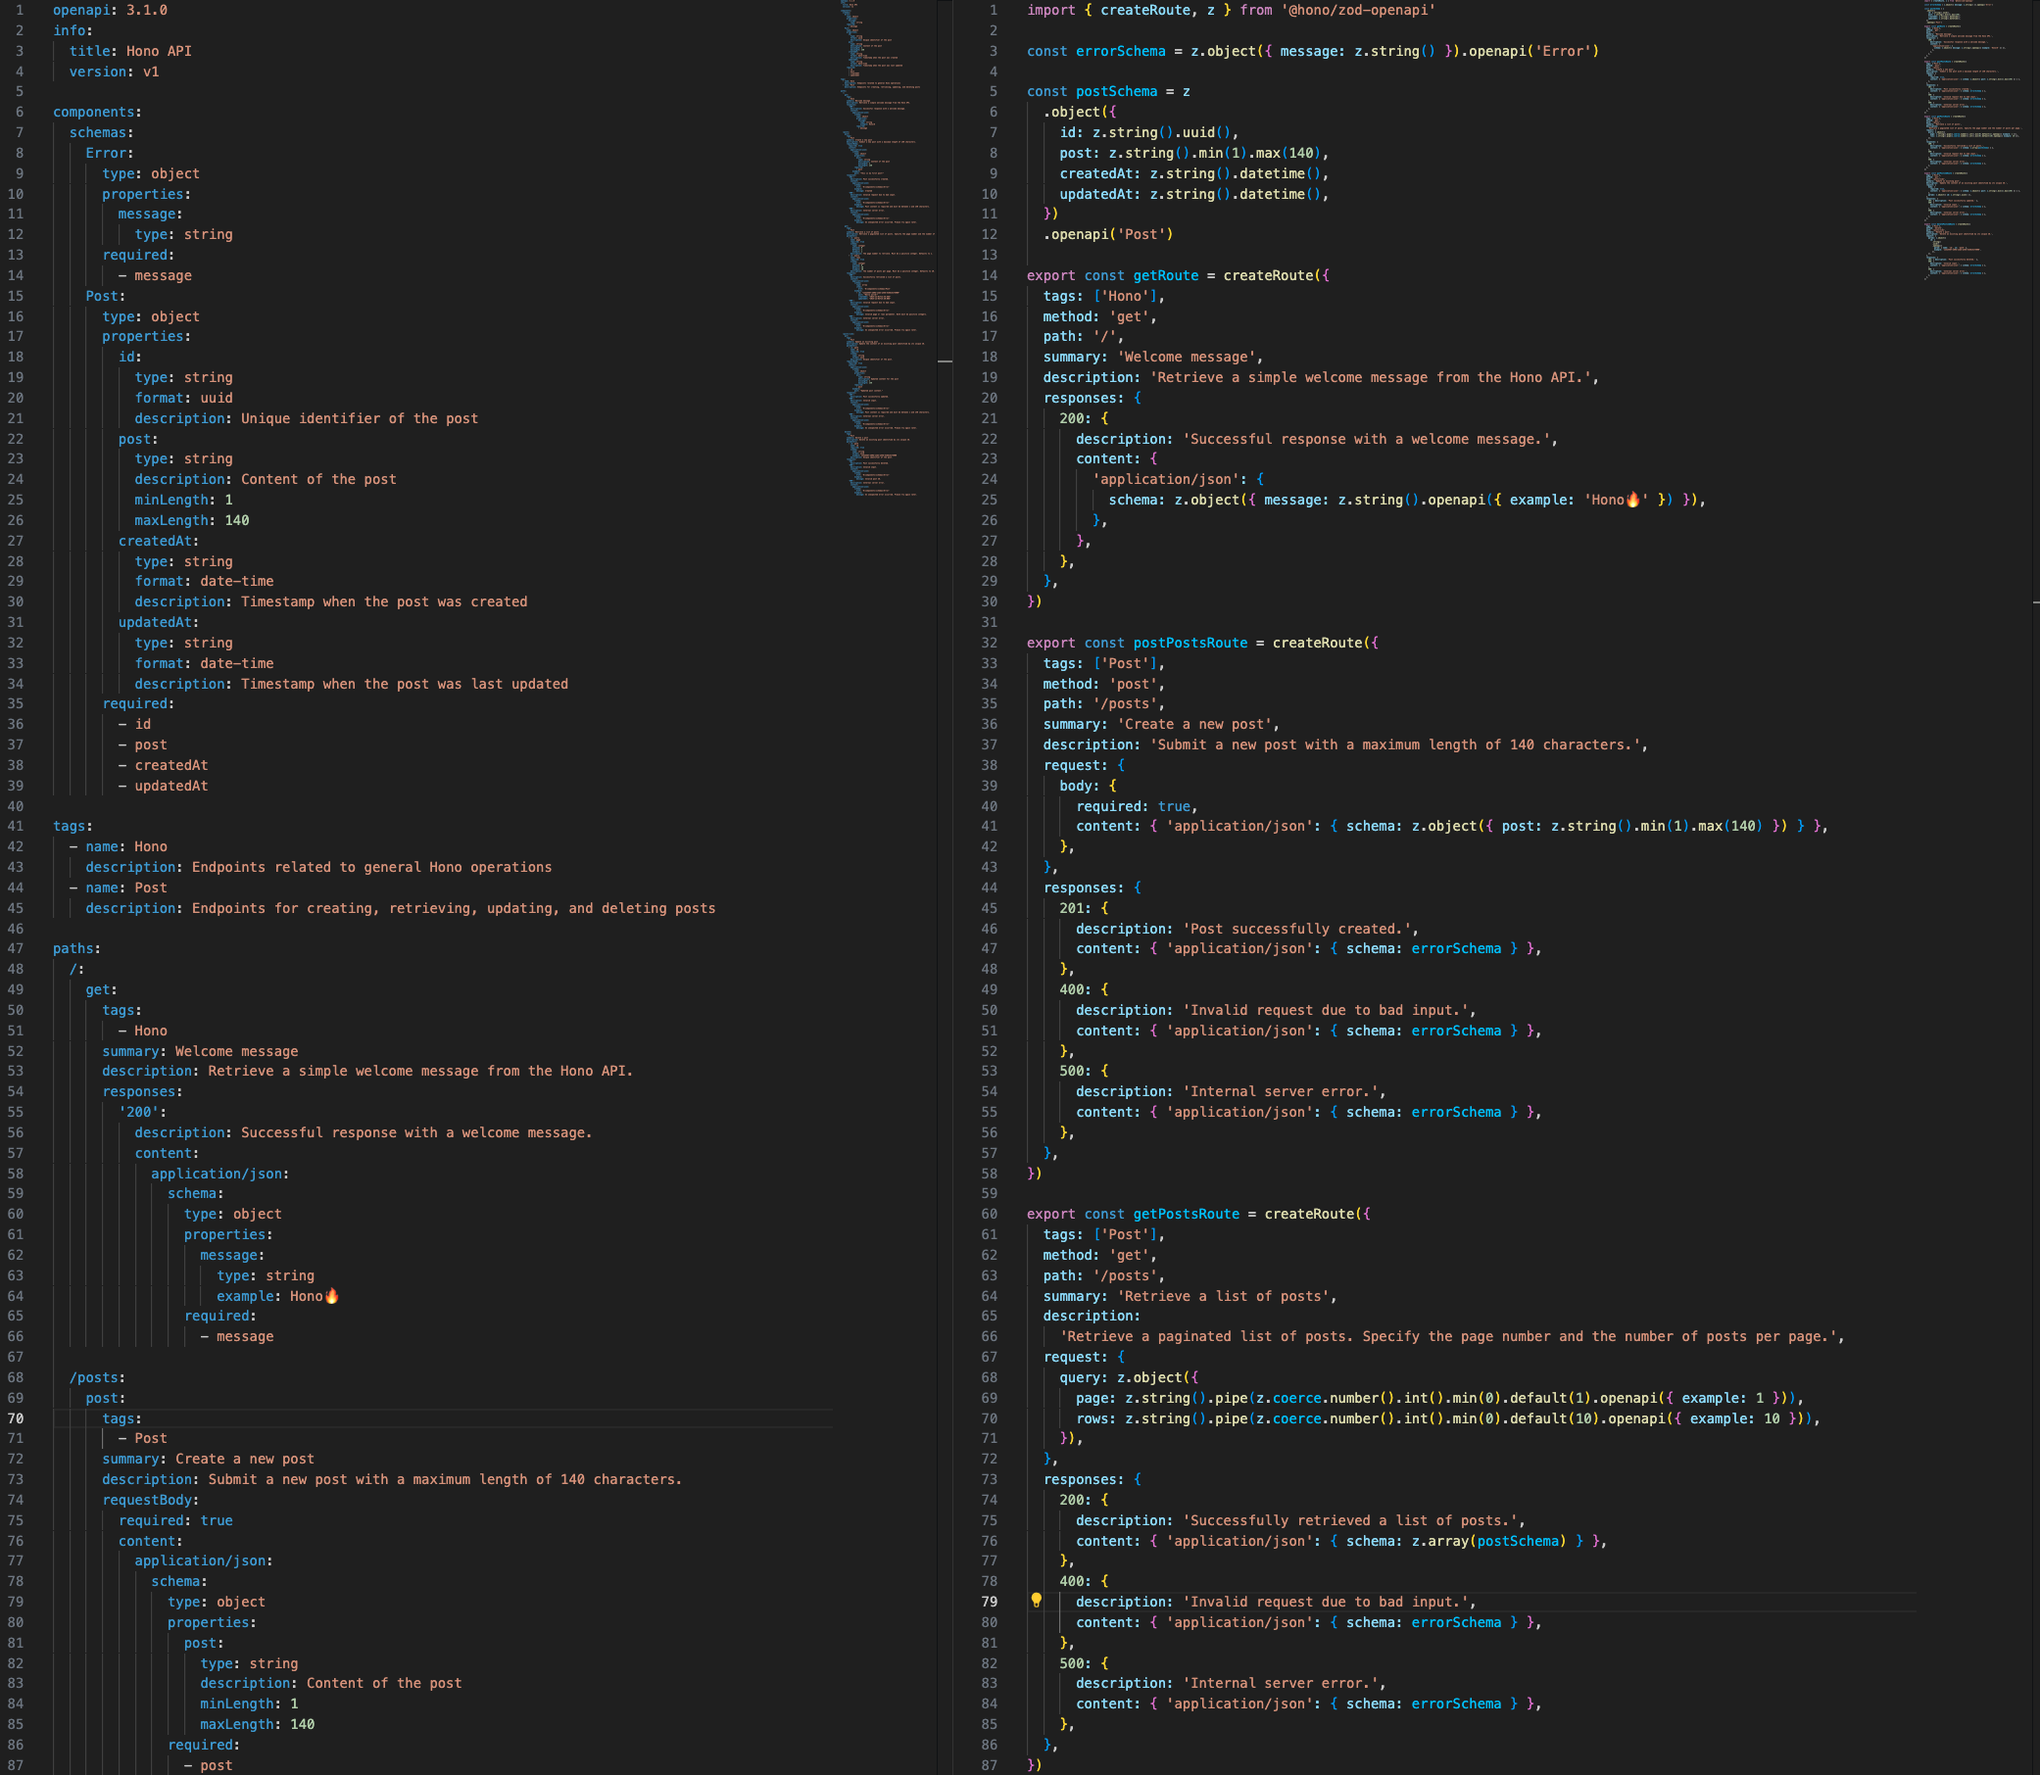
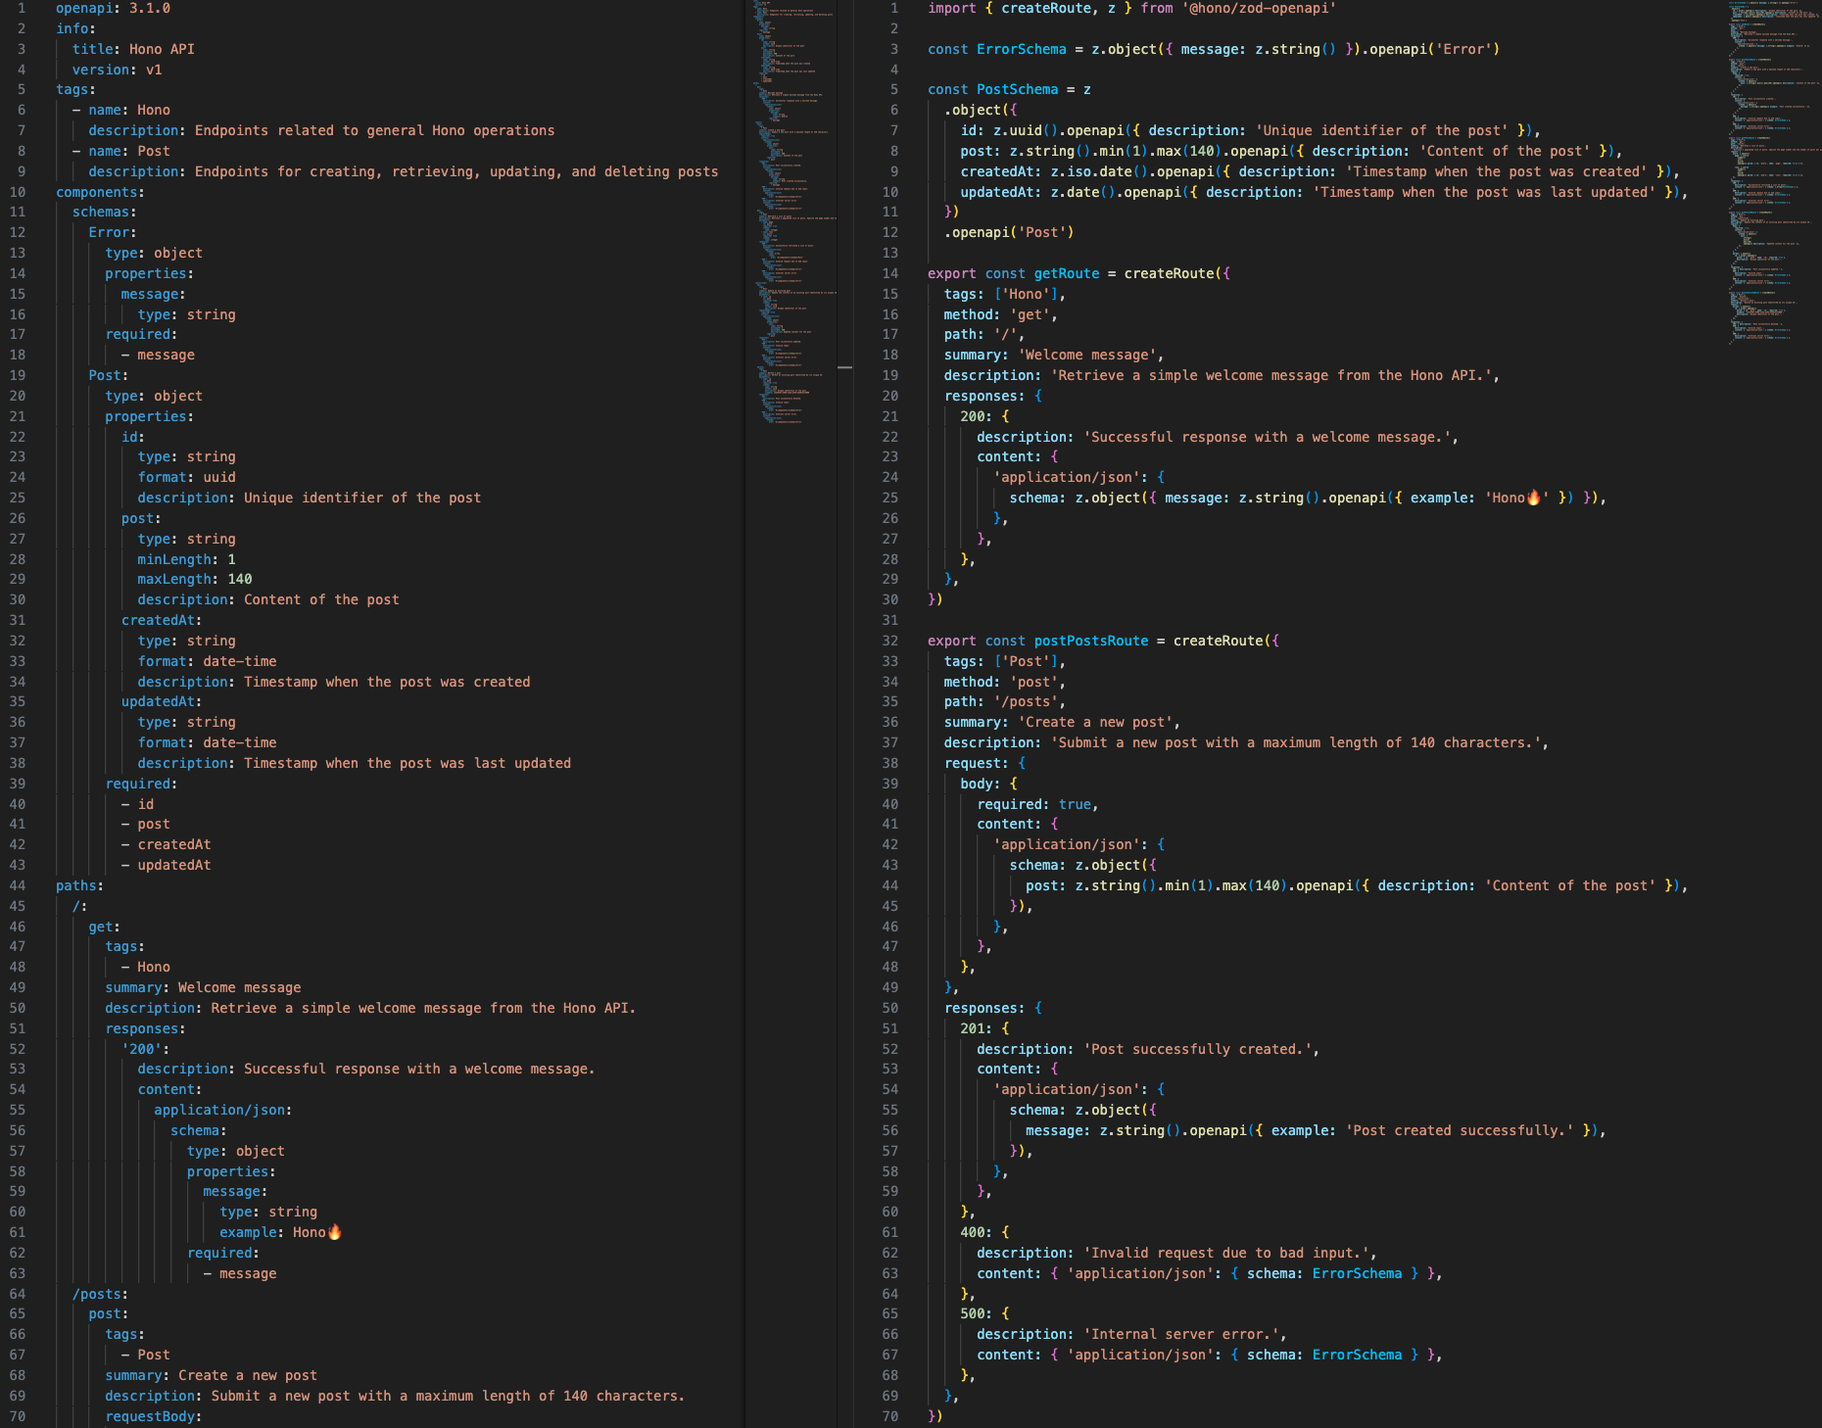
change assets

diff --git a/packages/hono-takibi/routes/hono-rest-example.ts b/packages/hono-takibi/routes/hono-rest-example.ts
@@ -52,7 +52,13 @@ export const postPostsRoute = createRoute({
   responses: {
     201: {
       description: 'Post successfully created.',
-      content: { 'application/json': { schema: ErrorSchema } },
+      content: {
+        'application/json': {
+          schema: z.object({
+            message: z.string().openapi({ example: 'Post created successfully.' }),
+          }),
+        },
+      },
     },
     400: {
       description: 'Invalid request due to bad input.',
@@ -77,15 +83,11 @@ export const getPostsRoute = createRoute({
       page: z.coerce
         .number()
         .int()
-        .min(0)
-        .default(1)
-        .openapi({ param: { in: 'query', name: 'page', required: false }, example: 1 }),
+        .openapi({ param: { in: 'query', name: 'page', required: false } }),
       rows: z.coerce
         .number()
         .int()
-        .min(0)
-        .default(10)
-        .openapi({ param: { in: 'query', name: 'rows', required: false }, example: 10 }),
+        .openapi({ param: { in: 'query', name: 'rows', required: false } }),
     }),
   },
   responses: {
@@ -126,7 +128,12 @@ export const putPostsIdRoute = createRoute({
       },
     },
     params: z.object({
-      id: z.uuid().openapi({ param: { in: 'path', name: 'id', required: true } }),
+      id: z
+        .uuid()
+        .openapi({
+          param: { in: 'path', name: 'id', required: true },
+          description: 'Unique identifier of the post.',
+        }),
     }),
   },
   responses: {
@@ -150,10 +157,13 @@ export const deletePostsIdRoute = createRoute({
   description: 'Delete an existing post identified by its unique ID.',
   request: {
     params: z.object({
-      id: z.uuid().openapi({
-        param: { in: 'path', name: 'id', required: true },
-        example: '123e4567-e89b-12d3-a456-426614174000',
-      }),
+      id: z
+        .uuid()
+        .openapi({
+          param: { in: 'path', name: 'id', required: true },
+          example: '123e4567-e89b-12d3-a456-426614174000',
+          description: 'Unique identifier of the post.',
+        }),
     }),
   },
   responses: {

diff --git a/README.md b/README.md
@@ -451,8 +451,6 @@ basic
 Options:
   --export-schema      exports all schema definitions
   --export-type        exports all type definitions
-  --naming-case-type   PascalCase or camelCase
-  --naming-case-schema PascalCase or camelCase
 ```
 
 template

diff --git a/packages/hono-takibi/README.md b/packages/hono-takibi/README.md
@@ -451,8 +451,6 @@ basic
 Options:
   --export-schema      exports all schema definitions
   --export-type        exports all type definitions
-  --naming-case-type   PascalCase or camelCase
-  --naming-case-schema PascalCase or camelCase
 ```
 
 template
